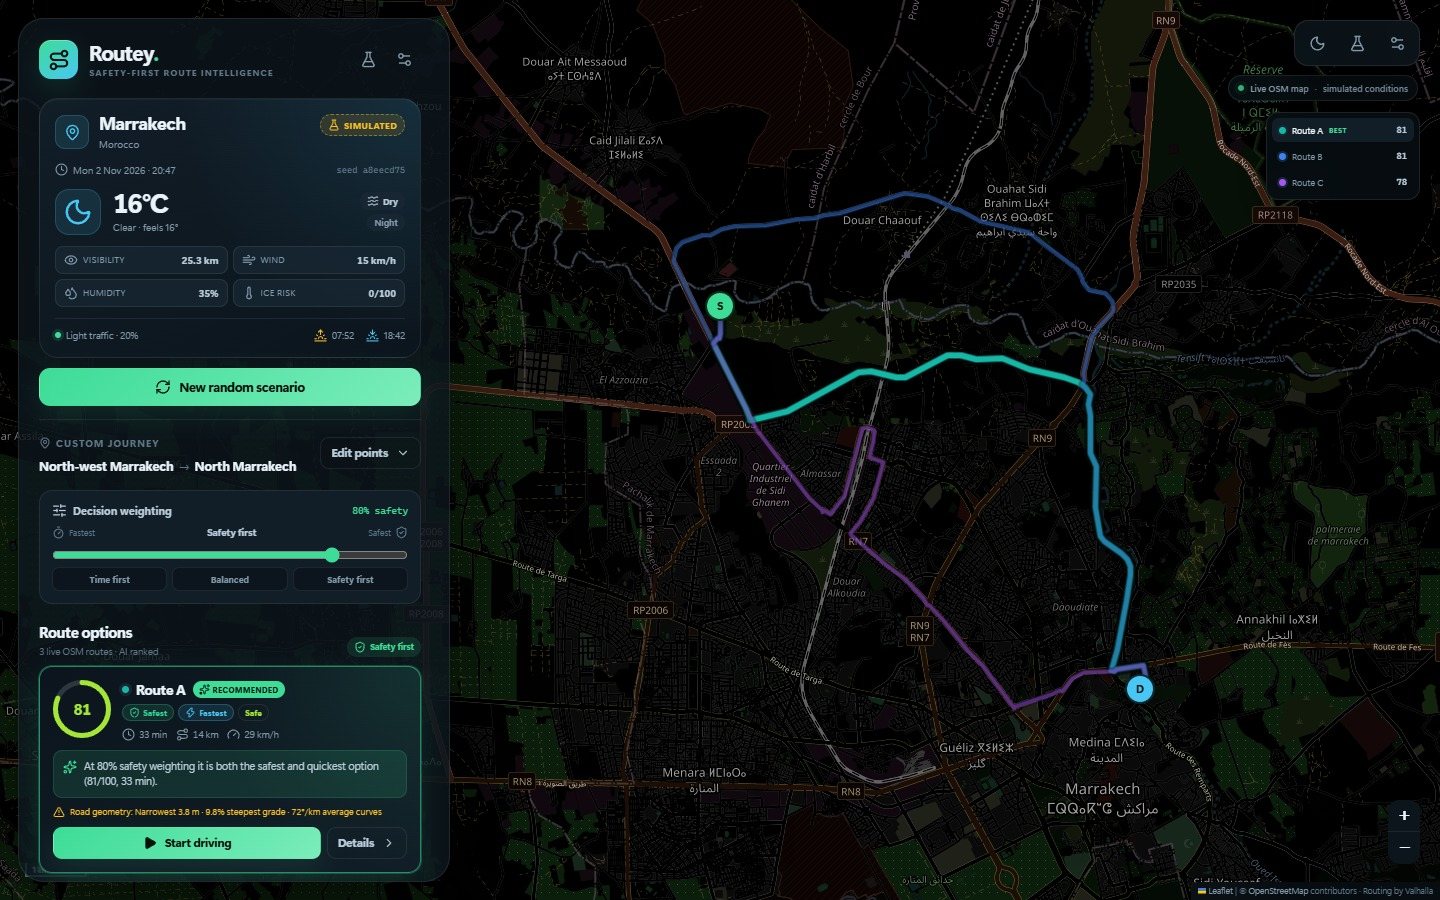
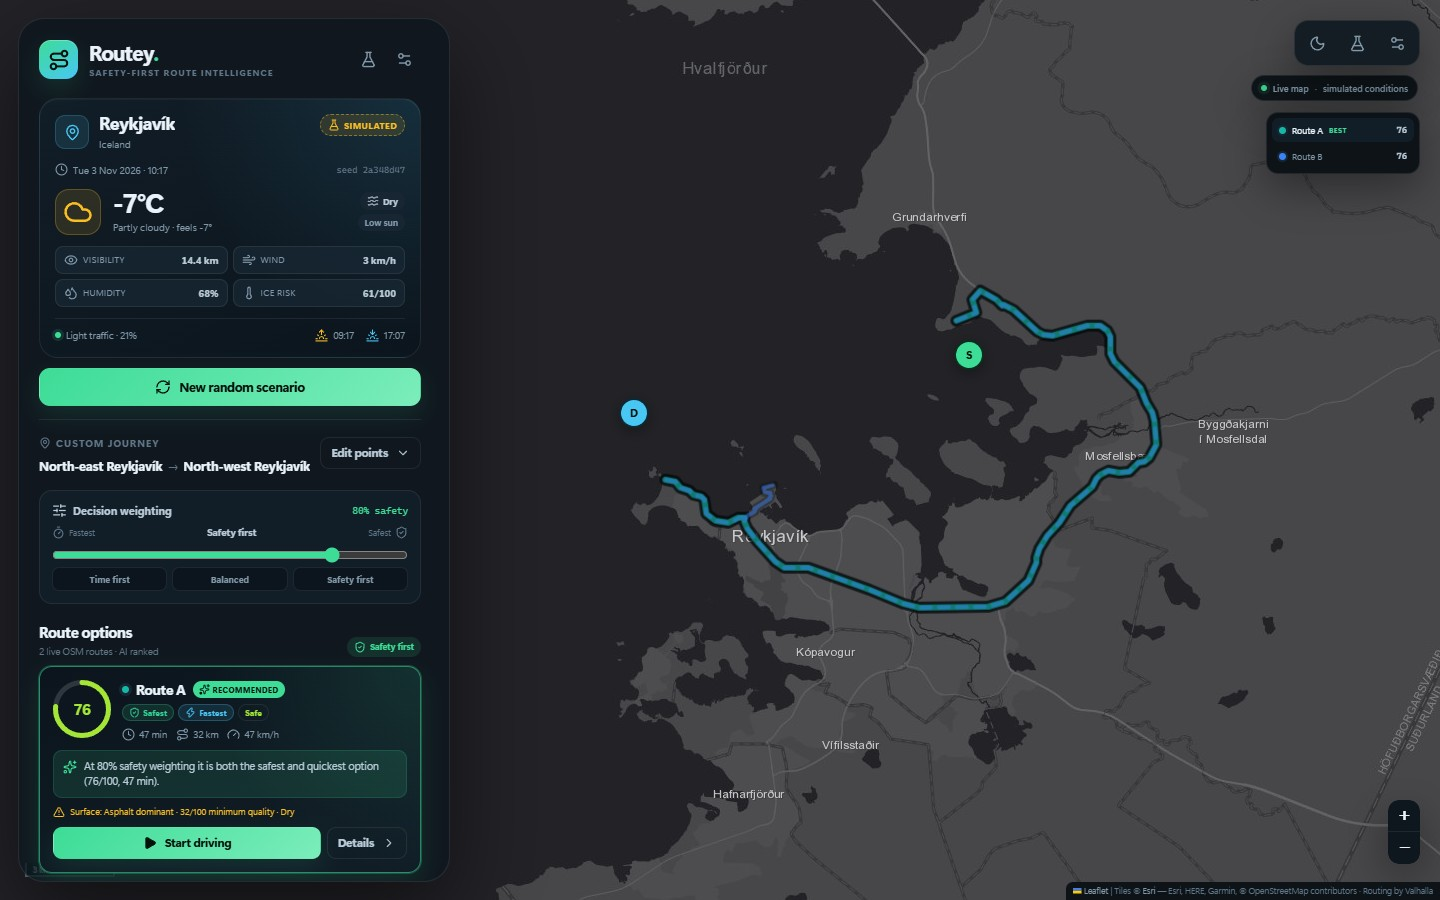
Switch basemap to Esri after OSM tile block
The OpenStreetMap volunteer tile servers returned access-blocked tiles.
Replace them with Esri Light/Dark Gray base tiles plus reference-label
overlays, update attribution and documentation, soften tile-loading gaps,
and add an E2E regression check for access-blocked tiles.

diff --git a/src/components/MapView.tsx b/src/components/MapView.tsx
@@ -27,13 +27,21 @@ interface MapViewProps {
   driving: boolean;
 }
 
-const TILE_URLS = {
-  dark: "https://tile.openstreetmap.org/{z}/{x}/{y}.png",
-  light: "https://tile.openstreetmap.org/{z}/{x}/{y}.png",
-};
+const TILE_LAYERS = {
+  light: {
+    base: "https://server.arcgisonline.com/ArcGIS/rest/services/Canvas/World_Light_Gray_Base/MapServer/tile/{z}/{y}/{x}",
+    reference:
+      "https://server.arcgisonline.com/ArcGIS/rest/services/Canvas/World_Light_Gray_Reference/MapServer/tile/{z}/{y}/{x}",
+  },
+  dark: {
+    base: "https://server.arcgisonline.com/ArcGIS/rest/services/Canvas/World_Dark_Gray_Base/MapServer/tile/{z}/{y}/{x}",
+    reference:
+      "https://server.arcgisonline.com/ArcGIS/rest/services/Canvas/World_Dark_Gray_Reference/MapServer/tile/{z}/{y}/{x}",
+  },
+} as const;
 
 const ATTRIBUTION =
-  '&copy; <a href="https://www.openstreetmap.org/copyright" target="_blank" rel="noreferrer">OpenStreetMap</a> contributors · Routing by Valhalla';
+  'Tiles &copy; <a href="https://www.esri.com/" target="_blank" rel="noreferrer">Esri</a> — Esri, HERE, Garmin, &copy; OpenStreetMap contributors · Routing by Valhalla';
 
 function escapeHtml(value: string): string {
   return value
@@ -58,6 +66,7 @@ export default function MapView({
   const containerRef = useRef<HTMLDivElement>(null);
   const mapRef = useRef<L.Map | null>(null);
   const tileRef = useRef<L.TileLayer | null>(null);
+  const referenceRef = useRef<L.TileLayer | null>(null);
   const routeLayerRef = useRef<L.LayerGroup | null>(null);
   const markerLayerRef = useRef<L.LayerGroup | null>(null);
   const carMarkerRef = useRef<L.Marker | null>(null);
@@ -96,12 +105,22 @@ export default function MapView({
     const map = mapRef.current;
     if (!map) return;
     if (tileRef.current) map.removeLayer(tileRef.current);
-    tileRef.current = L.tileLayer(TILE_URLS[theme], {
+    if (referenceRef.current) map.removeLayer(referenceRef.current);
+
+    const layers = TILE_LAYERS[theme];
+    tileRef.current = L.tileLayer(layers.base, {
       attribution: ATTRIBUTION,
-      maxZoom: 19,
-      detectRetina: true,
+      maxZoom: 20,
+      zIndex: 0,
+      detectRetina: false,
     }).addTo(map);
     tileRef.current.bringToBack();
+
+    referenceRef.current = L.tileLayer(layers.reference, {
+      maxZoom: 20,
+      zIndex: 1,
+      detectRetina: false,
+    }).addTo(map);
   }, [theme]);
 
   useEffect(() => {

diff --git a/server/scoring.ts b/server/scoring.ts
@@ -747,8 +747,11 @@ function comparisonReason(
     }
     return `At ${pct}% safety weighting it has the best combined safety and efficiency profile.`;
   }
+  const roundedSafetyGap = Math.round(safetyGap);
   if (route.isFastest) {
-    return `Quickest option, but ${Math.round(safetyGap)} safety points below the recommendation.`;
+    return roundedSafetyGap === 0
+      ? "Quickest option, but effectively tied on safety with the recommended balance."
+      : `Quickest option, but ${roundedSafetyGap} safety points below the recommendation.`;
   }
   if (route.isSafest) {
     const cost = minutes(route.adjustedDurationS - recommended.adjustedDurationS);
@@ -757,9 +760,14 @@ function comparisonReason(
   const timeDifference = Math.round(
     Math.abs(route.adjustedDurationS - recommended.adjustedDurationS) / 60,
   );
+  if (timeDifference === 0) {
+    return roundedSafetyGap === 0
+      ? "Alternative with effectively the same safety and timing."
+      : `Alternative: effectively the same time, but ${roundedSafetyGap} safety points below the recommended balance.`;
+  }
   return route.adjustedDurationS >= recommended.adjustedDurationS
-    ? `Alternative: ${timeDifference} min slower and ${Math.round(safetyGap)} safety points below the recommended balance.`
-    : `Alternative: ${timeDifference} min quicker but ${Math.round(safetyGap)} safety points below the recommended balance.`;
+    ? `Alternative: ${timeDifference} min slower${roundedSafetyGap === 0 ? " with effectively the same safety score" : ` and ${roundedSafetyGap} safety points below the recommended balance`}.`
+    : `Alternative: ${timeDifference} min quicker${roundedSafetyGap === 0 ? " with effectively the same safety score" : ` but ${roundedSafetyGap} safety points below the recommended balance`}.`;
 }
 
 function assignKindsAndReasons(

diff --git a/src/styles.css b/src/styles.css
@@ -33,6 +33,7 @@
   --glass-strong: rgba(255, 255, 255, 0.96);
   --scroll: rgba(69, 101, 124, 0.24);
   --route-line-halo: rgba(255, 255, 255, 0.94);
+  --map-base-bg: #ececec;
   --sidebar: 432px;
   --radius-xl: 26px;
   --radius-lg: 19px;
@@ -71,6 +72,7 @@
   --glass-strong: rgba(12, 21, 29, 0.97);
   --scroll: rgba(180, 210, 230, 0.19);
   --route-line-halo: rgba(0, 0, 0, 0.8);
+  --map-base-bg: #2f2f2f;
 }
 
 * {
@@ -138,7 +140,7 @@ button:disabled {
   position: absolute;
   inset: 0;
   z-index: 0;
-  background: var(--bg-deep);
+  background: var(--map-base-bg);
 }
 
 /* ---------- Generic UI ---------- */
@@ -1520,11 +1522,6 @@ button:disabled {
 .leaflet-container {
   font-family: var(--font);
   background: var(--bg-deep);
-}
-
-[data-theme="dark"] .leaflet-tile-pane {
-  filter: invert(1) hue-rotate(185deg) brightness(0.72) contrast(1.12)
-    saturate(0.55);
 }
 
 .leaflet-control-zoom {

diff --git a/src/components/SettingsModal.tsx b/src/components/SettingsModal.tsx
@@ -119,7 +119,7 @@ export default function SettingsModal({
               </span>
               <div>
                 <strong>Map tiles</strong>
-                <span>OpenStreetMap standard basemap</span>
+                <span>Esri Light/Dark Gray basemap with label overlay</span>
               </div>
               <em>live</em>
             </div>

diff --git a/src/App.tsx b/src/App.tsx
@@ -434,7 +434,7 @@ export default function App() {
       {!driving ? (
         <div className="map-caption">
           <span className="live-dot" />
-          Live OSM map
+          Live map
           <span className="caption-sep">·</span>
           simulated conditions
         </div>

diff --git a/server/index.ts b/server/index.ts
@@ -119,7 +119,7 @@ app.get("/api/config", (c) =>
     router: "OSM + Valhalla",
     llmConfigured: llmConfigured(),
     llmModel: config.llmModel,
-    tileProvider: "OpenStreetMap",
+    tileProvider: "Esri Light/Dark Gray",
     disclaimer: DISCLAIMER,
   }),
 );

diff --git a/tests/e2e.py b/tests/e2e.py
@@ -125,6 +125,9 @@ def main() -> int:
                 == 1
             ), "recommended route is not sorted first"
             assert page.locator(".leaflet-tile-loaded").count() > 0, "no map tiles"
+            assert "Access blocked" not in page.locator("body").inner_text(), (
+                "map provider returned an access-blocked tile page"
+            )
             assert page.locator(".map-canvas").is_visible(), "map is not visible"
             first_city = page.locator(".scenario-place h2").inner_text()
             page.screenshot(path=str(OUT / "e2e-home.png"))

diff --git a/devtests/visual_test.py b/devtests/visual_test.py
@@ -15,7 +15,7 @@ def attach(page, errors, logs):
 def wait_for_app(page):
     page.goto(BASE, wait_until="domcontentloaded", timeout=60000)
     page.wait_for_selector(".route-card", timeout=120000)
-    page.wait_for_timeout(4500)
+    page.wait_for_timeout(9000)
 
 
 with sync_playwright() as p:

diff --git a/README.md b/README.md
@@ -15,8 +15,9 @@ explainable safety score and a reason under every alternative.
 
 ## What it does
 
-- **Live map, real roads.** A Leaflet map uses OpenStreetMap tiles and Valhalla routing.
-  Every scenario uses real road geometry, real turn maneuvers and real distances.
+- **Live map, real roads.** A Leaflet map uses Esri Light/Dark Gray basemap tiles with a
+  label overlay, and Valhalla routing. Every scenario uses real road geometry, real turn
+  maneuvers and real distances.
 - **Random world simulator.** The backend picks a real city from a curated global
   catalogue, samples two points within its road network, fetches live routes, and generates
   a seed-specific time, weather, daylight phase, traffic profile, and road-condition story.
@@ -39,7 +40,8 @@ explainable safety score and a reason under every alternative.
 - **Simulation Lab.** A backend test harness runs 3–8 fresh scenarios, verifies that places,
   weather signatures, times and seeds are all unique, and stores every run in SQLite.
 - **Auto / light / dark theme.** Auto follows the operating-system preference; manual
-  overrides are stored locally. The dark map uses the same OSM tiles with a dark filter.
+  overrides are stored locally. The dark map uses Esri's Dark Gray basemap and reference
+  label overlay.
 
 ![Routey dark interface](docs/routey-dark.jpg)
 
@@ -50,7 +52,7 @@ explainable safety score and a reason under every alternative.
 | Frontend | React 19, Vite 8, TypeScript, Leaflet, lucide-react |
 | Backend | Bun 1.3, Hono, Zod |
 | Database | SQLite via `bun:sqlite` (WAL mode) |
-| Map tiles | OpenStreetMap standard tiles |
+| Map tiles | Esri Light/Dark Gray basemap + reference labels |
 | Routing | Valhalla public OSM router (`valhalla1.openstreetmap.de`) |
 | Geocoding | Nominatim (`nominatim.openstreetmap.org`) |
 | Optional AI narrative | Any OpenAI-compatible chat-completions endpoint, e.g. OpenRouter |
@@ -259,8 +261,9 @@ Dockerfile and provide the same persistent volume/environment variables.
 - Public Valhalla and Nominatim have usage policies and rate limits. Routey serializes and
   caches these requests, but a production deployment should use a self-hosted router or a
   commercial provider with a proper plan.
-- OSM tiles are subject to the OpenStreetMap tile usage policy. For substantial traffic,
-  use your own tile server or a commercial tile provider.
+- Basemap tiles are provided by Esri's public ArcGIS services. Review Esri's terms and use
+  an appropriate Esri plan/key for substantial or commercial traffic. Routing and
+  geocoding still depend on public OSM Valhalla/Nominatim services.
 - LLM explanations are optional; provide a server-side key through environment variables.
 - The app has no authentication because it is a local/demo project. Add auth/rate limiting
   before exposing a write-heavy public deployment.
@@ -290,5 +293,5 @@ data/              SQLite database (gitignored)
 
 ## Credits
 
-Map data © OpenStreetMap contributors. Routing by Valhalla. Place search by Nominatim.
-Built with Bun, Hono, React, Vite and Leaflet.
+Basemap tiles © Esri. Map/routing data © OpenStreetMap contributors. Routing by Valhalla.
+Place search by Nominatim. Built with Bun, Hono, React, Vite and Leaflet.
